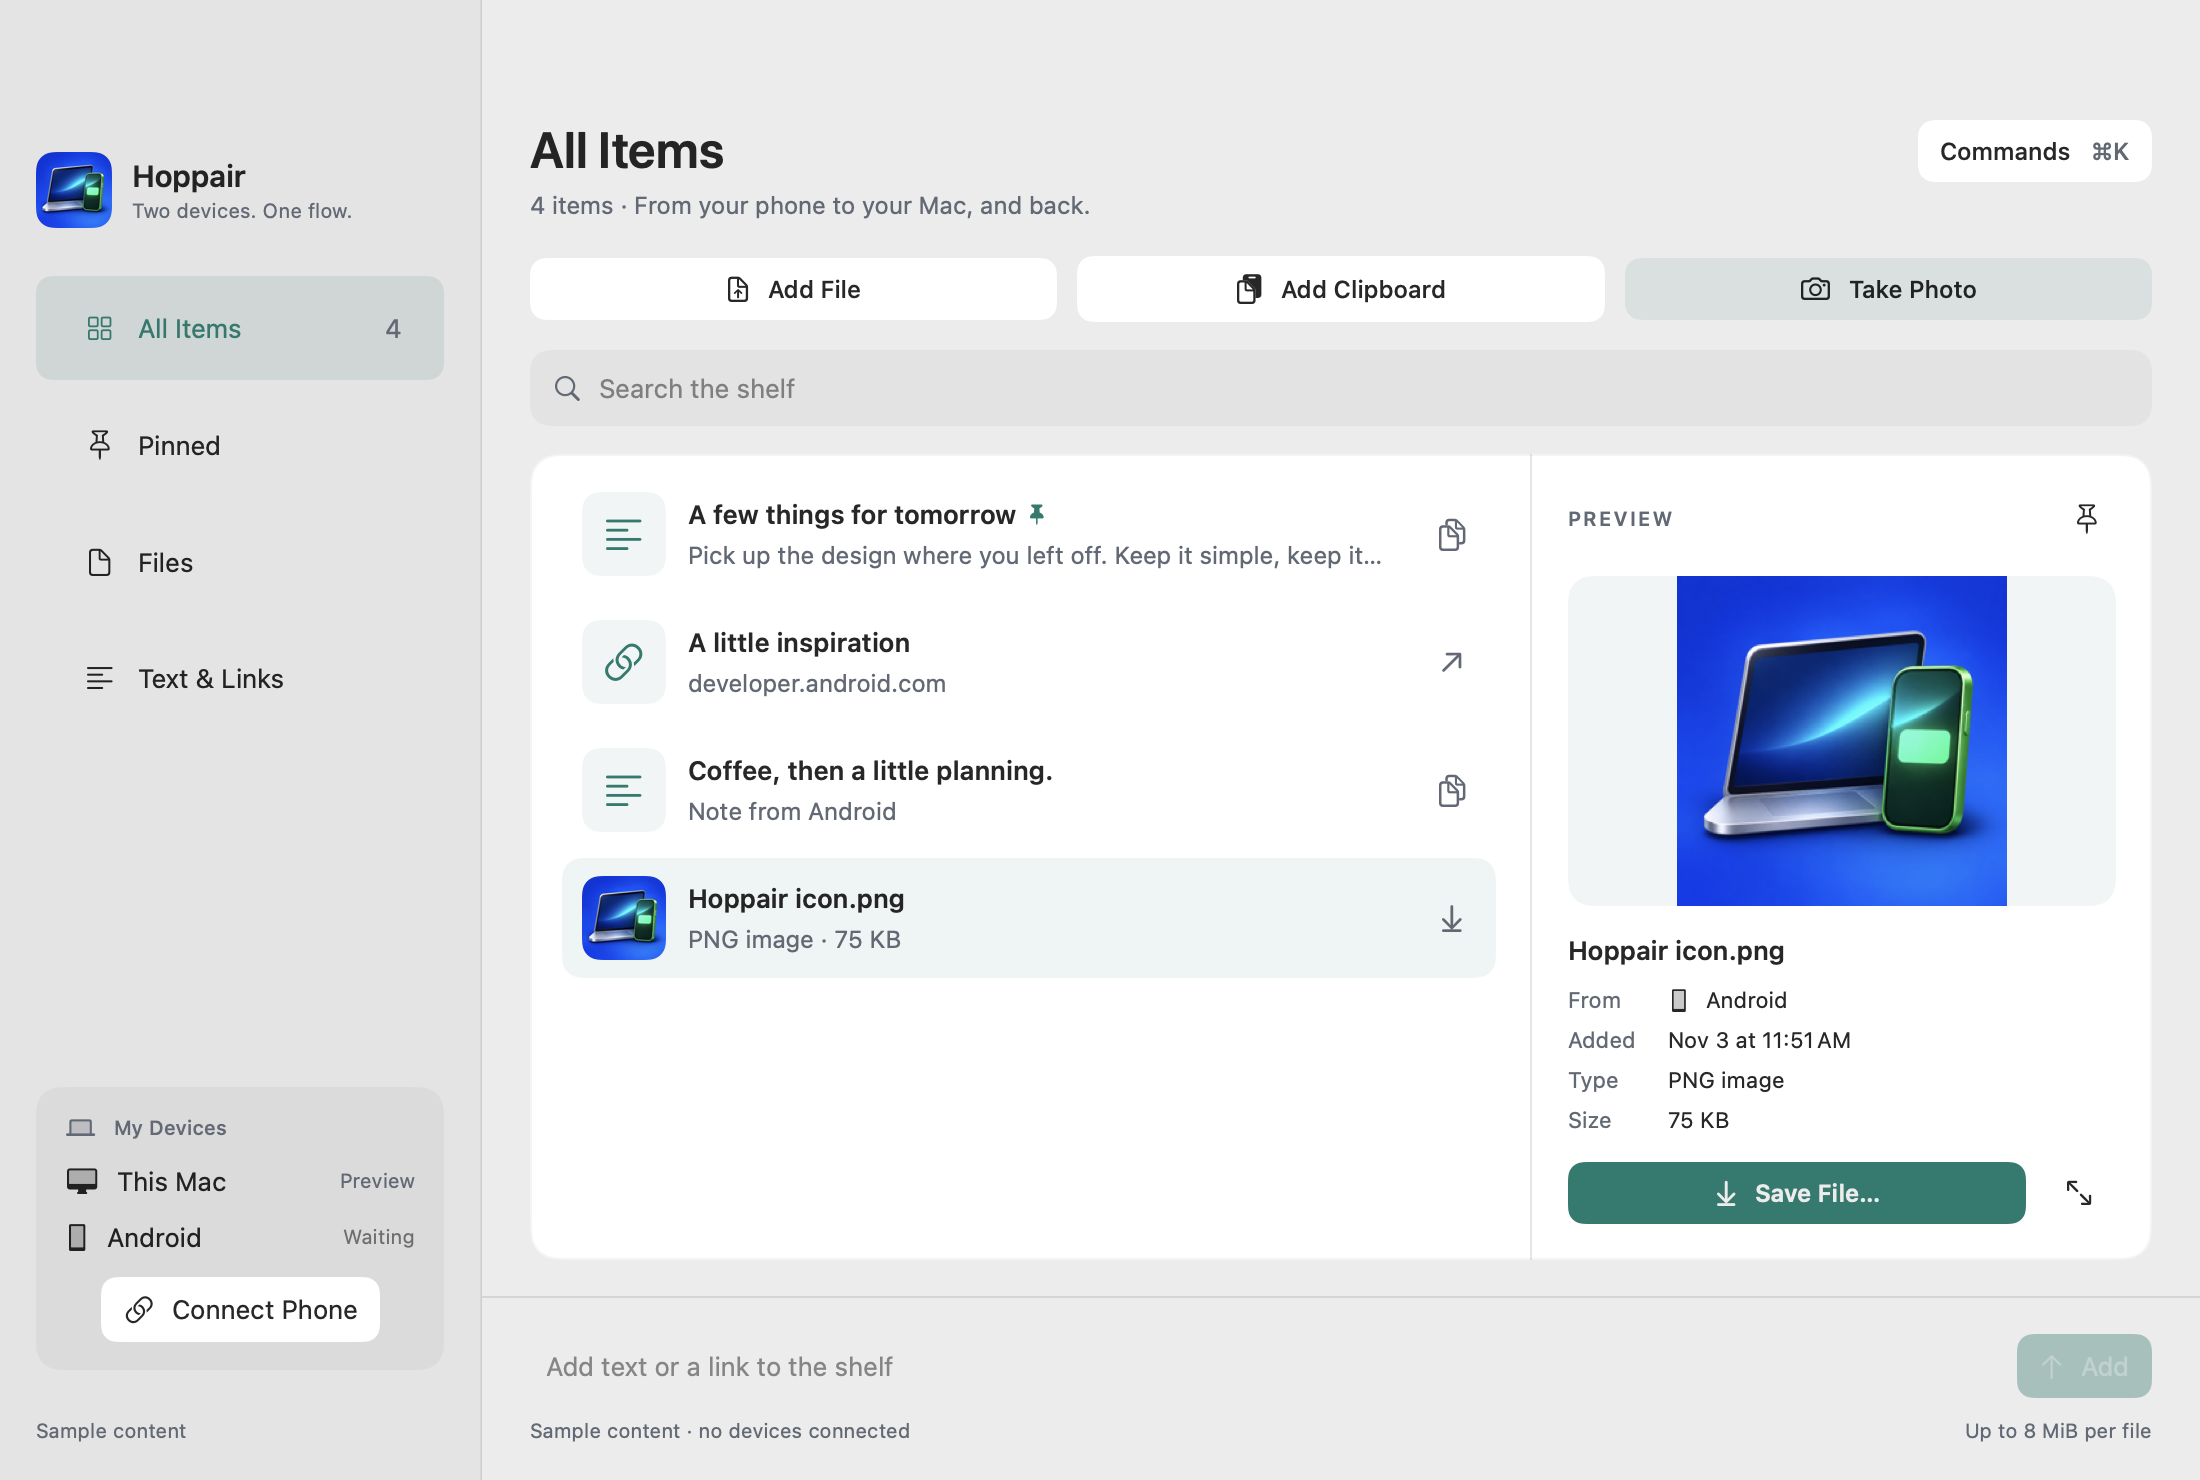
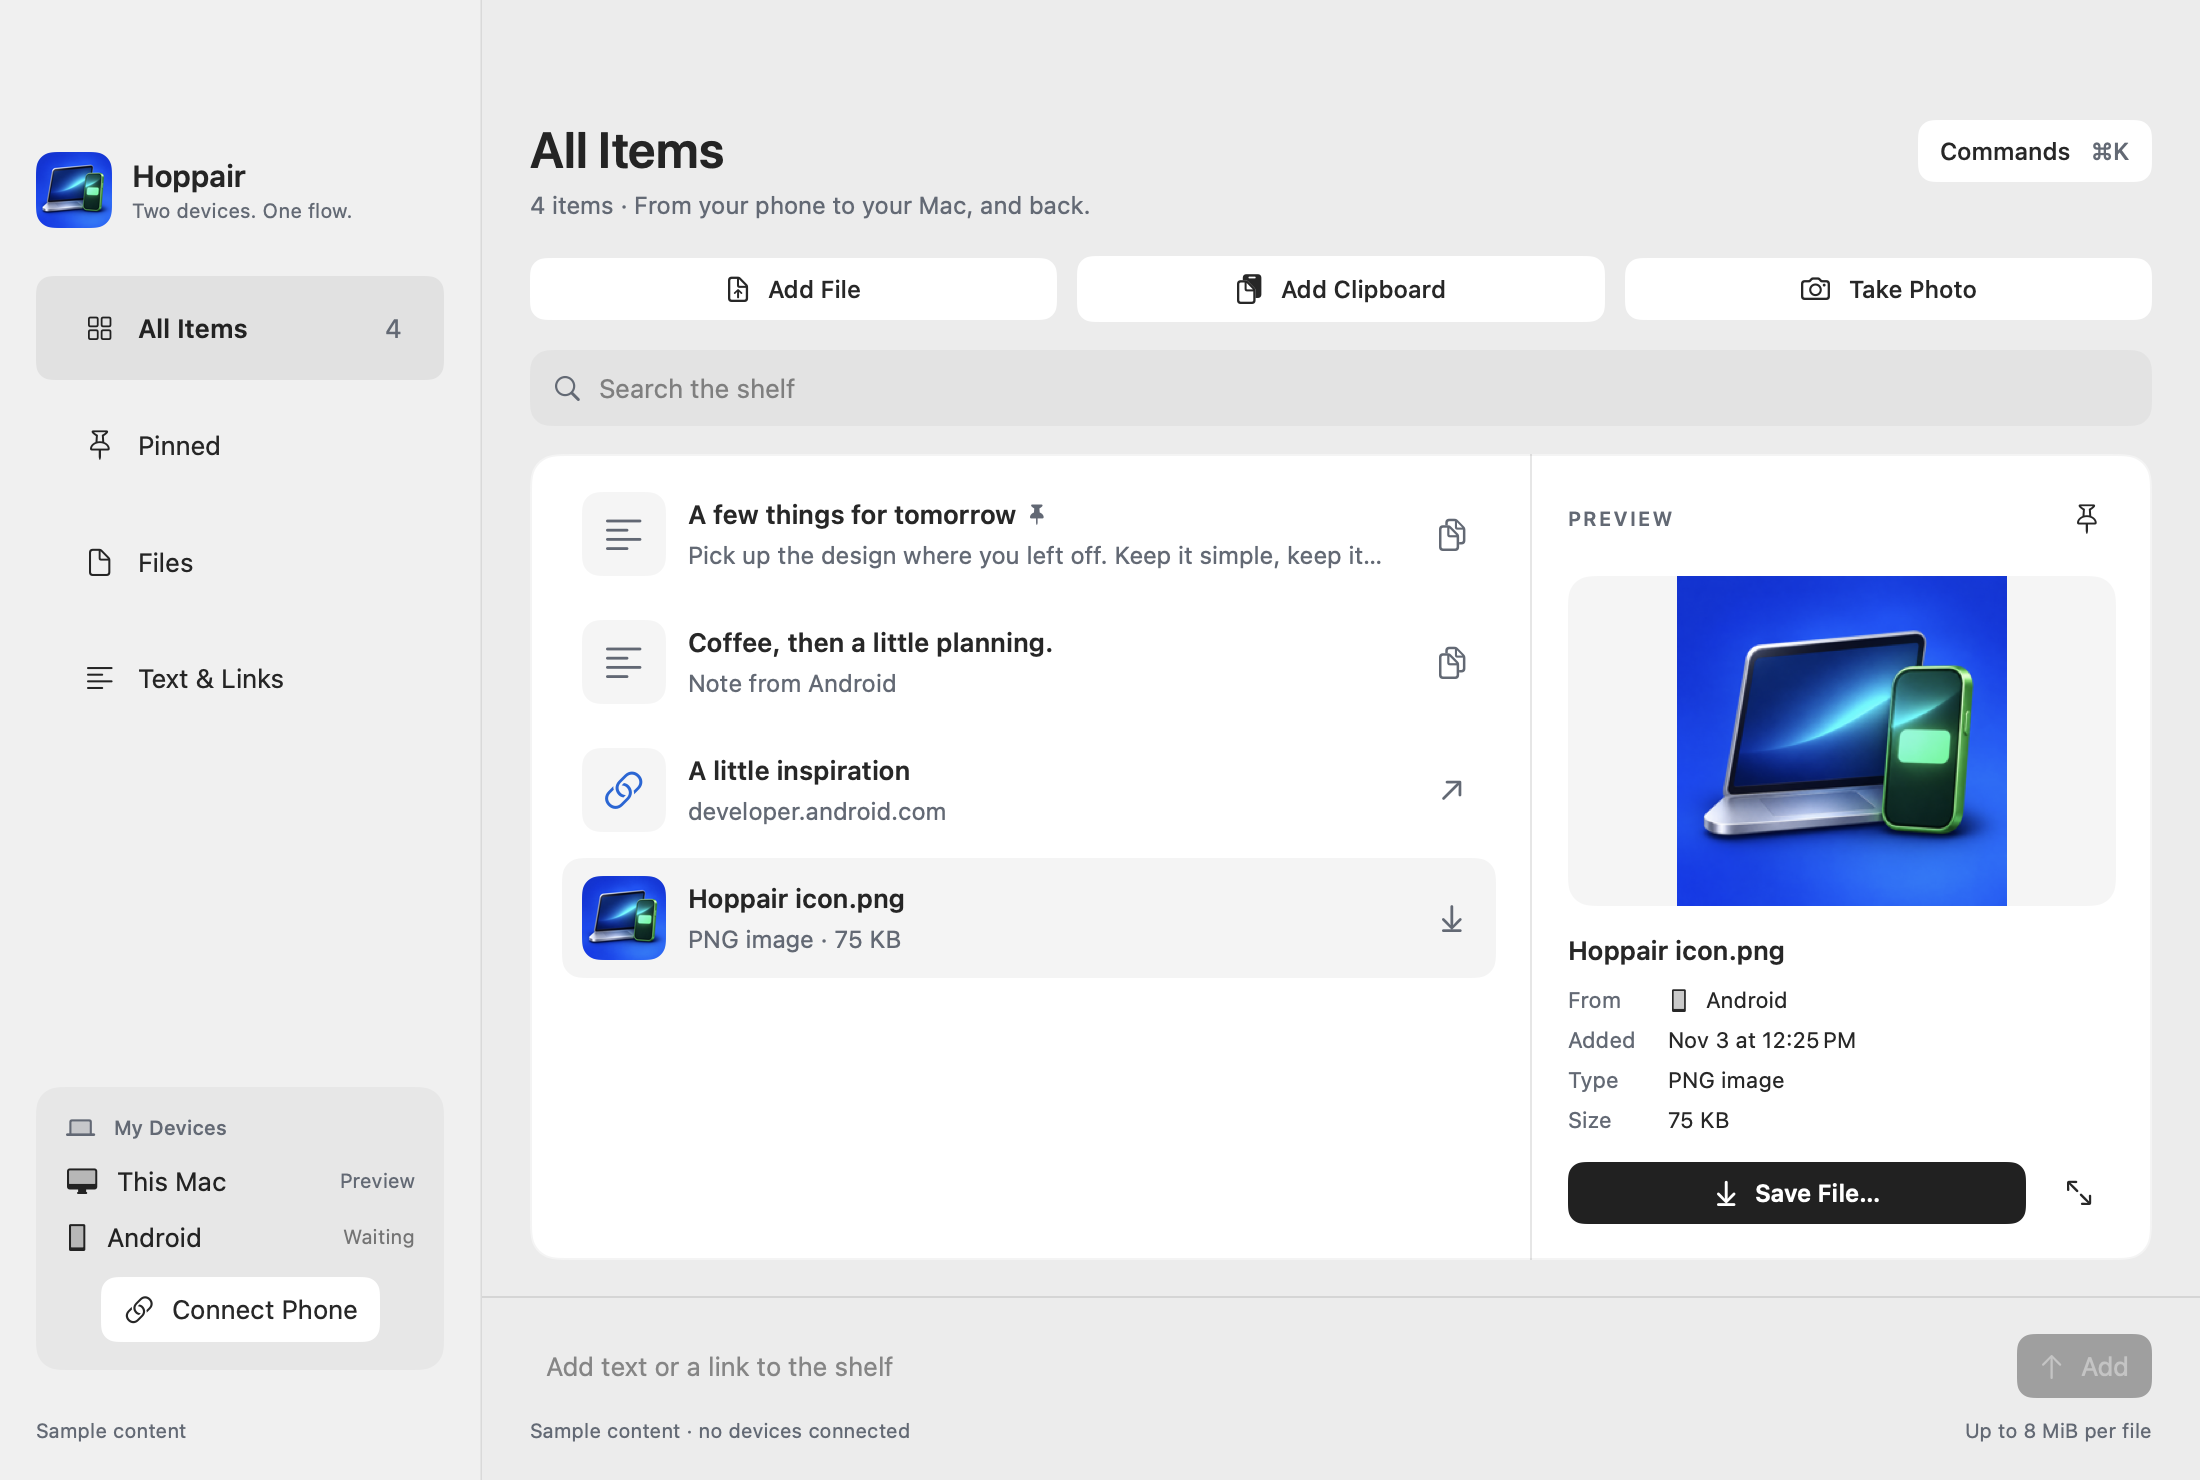
Use a neutral Mac palette with charcoal buttons

diff --git a/apps/macos/Sources/Hoppair/ShelfView.swift b/apps/macos/Sources/Hoppair/ShelfView.swift
@@ -30,7 +30,7 @@ struct ShelfView: View {
                 VStack(spacing: 6) {
                     ForEach(sections, id: \.0) { name, symbol in
                         Button { section = name } label: {
-                            HStack { Image(systemName: symbol).frame(width: 22); Text(name); Spacer(); if name == "All Items" { Text("\(model.items.count)").foregroundStyle(HoppairPalette.secondaryText) } }
+                            HStack { Image(systemName: symbol).frame(width: 22); Text(name).fontWeight(section == name ? .semibold : .regular); Spacer(); if name == "All Items" { Text("\(model.items.count)").foregroundStyle(HoppairPalette.secondaryText) } }
                                 .padding(10).frame(maxWidth: .infinity, alignment: .leading)
 
                         }.hoppairButton(.navigation, selected: section == name)
@@ -43,7 +43,7 @@ struct ShelfView: View {
                     HStack { Image(systemName: "desktopcomputer"); Text("This Mac"); Spacer(); Text(model.isScreenshotMode ? "Preview" : model.port > 0 || model.relayConnected ? "Ready" : "Preparing").font(.caption).foregroundStyle(HoppairPalette.secondaryText) }
                     TimelineView(.periodic(from: .now, by: 3)) { context in
                         let online = model.lastSeen.map { context.date.timeIntervalSince($0) < 12 } ?? false
-                        HStack { Image(systemName: "smartphone"); Text("Android"); Spacer(); Text(online ? "Connected" : "Waiting").font(.caption).foregroundStyle(online ? accent : .secondary) }
+                        HStack { Image(systemName: "smartphone"); Text("Android"); Spacer(); Text(online ? "Connected" : "Waiting").font(.caption).foregroundStyle(online ? Color.primary : Color.secondary) }
                     }
                     Button("Connect Phone", systemImage: "link") { model.showPairing = true }.frame(maxWidth: .infinity)
                 }.padding(14).background(.quaternary.opacity(0.4), in: RoundedRectangle(cornerRadius: 12))
@@ -69,11 +69,11 @@ struct ShelfView: View {
                     .padding(11).background(.quaternary.opacity(0.4), in: RoundedRectangle(cornerRadius: 10)).padding(.horizontal, 24)
                 if model.cameraRequest != nil {
                     HStack { Label("Open Hoppair on your phone to confirm the photo request", systemImage: "camera"); Spacer(); Button("Cancel Request") { model.cameraRequest = nil } }
-                        .font(.callout).padding(12).background(accent.opacity(0.10), in: RoundedRectangle(cornerRadius: 8)).padding(.horizontal, 24).padding(.top, 12)
+                        .font(.callout).padding(12).background(HoppairPalette.iconSurface, in: RoundedRectangle(cornerRadius: 8)).padding(.horizontal, 24).padding(.top, 12)
                 }
                 if filtered.isEmpty {
                     VStack(spacing: 14) {
-                        Image(systemName: search.isEmpty ? "tray" : "magnifyingglass").font(.system(size: 44, weight: .light)).foregroundStyle(accent)
+                        Image(systemName: search.isEmpty ? "tray" : "magnifyingglass").font(.system(size: 44, weight: .light)).foregroundStyle(HoppairPalette.secondaryText)
                         Text(emptyTitle).font(.title2.bold())
                         Text(emptyMessage)
                             .multilineTextAlignment(.center).foregroundStyle(HoppairPalette.secondaryText)

diff --git a/apps/macos/Sources/Hoppair/HoppairStyle.swift b/apps/macos/Sources/Hoppair/HoppairStyle.swift
@@ -2,12 +2,21 @@ import SwiftUI
 
 // Shared native surfaces keep hover, press, focus and disabled states consistent.
 enum HoppairPalette {
-    static let accent = Color(nsColor: NSColor(name: nil) { appearance in
-        if appearance.bestMatch(from: [.darkAqua, .aqua]) == .darkAqua {
-            return NSColor(srgbRed: 0.50, green: 0.84, blue: 0.78, alpha: 1)
-        }
-        return NSColor(srgbRed: 0.04, green: 0.48, blue: 0.43, alpha: 1)
-    })
+    // Blue is reserved for links and system interaction; everyday surfaces stay neutral.
+    static let accent = Color(nsColor: .linkColor)
+    static let primaryFill = adaptive(light: shade(0.13), dark: shade(0.88))
+    static let primaryForeground = adaptive(light: .white, dark: shade(0.12))
+    static let iconSurface = Color.primary.opacity(0.045)
+    static let hoverFill = Color.primary.opacity(0.055)
+    static func selectionFill(focused: Bool) -> Color { Color.primary.opacity(focused ? 0.085 : 0.05) }
+    private static func shade(_ level: CGFloat) -> NSColor {
+        NSColor(srgbRed: level, green: level, blue: level, alpha: 1)
+    }
+    private static func adaptive(light: NSColor, dark: NSColor) -> Color {
+        Color(nsColor: NSColor(name: nil) { appearance in
+            appearance.bestMatch(from: [.darkAqua, .aqua]) == .darkAqua ? dark : light
+        })
+    }
     static let secondaryText = Color(nsColor: NSColor(name: nil) { appearance in
         appearance.bestMatch(from: [.darkAqua, .aqua]) == .darkAqua
             ? NSColor(srgbRed: 0.70, green: 0.73, blue: 0.77, alpha: 1)
@@ -33,15 +42,17 @@ struct HoppairButtonStyle: ButtonStyle {
         @Environment(\.accessibilityReduceMotion) private var reduceMotion
         private var active: Bool { enabled && (hovered || configuration.isPressed) }
         private var background: Color {
-            if kind == .primary { return HoppairPalette.accent.opacity(active ? 0.86 : 1) }
-            if kind == .navigation || kind == .row {
-                return selected ? HoppairPalette.accent.opacity(active ? 0.20 : 0.12) : Color.primary.opacity(active ? 0.065 : 0)
+            if kind == .primary { return HoppairPalette.primaryFill.opacity(active ? 0.86 : 1) }
+            // The row container owns its hover fill so the action and content share one surface.
+            if kind == .row { return .clear }
+            if kind == .navigation {
+                return selected ? Color.primary.opacity(active ? 0.11 : 0.075) : Color.primary.opacity(active ? 0.055 : 0)
             }
-            return active ? HoppairPalette.accent.opacity(0.10) : (kind == .icon ? .clear : HoppairPalette.surface)
+            return active ? HoppairPalette.hoverFill : (kind == .icon ? .clear : HoppairPalette.surface)
         }
         var body: some View {
             configuration.label
-                .foregroundStyle(kind == .primary ? Color(nsColor: .windowBackgroundColor) : selected || (active && kind == .icon) ? HoppairPalette.accent : Color.primary)
+                .foregroundStyle(kind == .primary ? HoppairPalette.primaryForeground : Color.primary)
                 .padding(.horizontal, kind == .row ? 0 : kind == .icon ? 7 : 11)
                 .padding(.vertical, kind == .row ? 0 : kind == .icon ? 7 : 8)
                 .background(background, in: RoundedRectangle(cornerRadius: 8))

diff --git a/apps/macos/Sources/Hoppair/ShelfItemRow.swift b/apps/macos/Sources/Hoppair/ShelfItemRow.swift
@@ -40,7 +40,7 @@ struct ShelfItemRow: View {
                             Text(item.title.replacingOccurrences(of: "\n", with: " "))
                                 .font(.system(size: 13, weight: .semibold)).lineLimit(1)
                                 .truncationMode(item.kind == "file" ? .middle : .tail)
-                            if item.pinned { Image(systemName: "pin.fill").font(.system(size: 9)).foregroundStyle(HoppairPalette.accent).accessibilityLabel("Pinned") }
+                            if item.pinned { Image(systemName: "pin.fill").font(.system(size: 9)).foregroundStyle(HoppairPalette.secondaryText).accessibilityLabel("Pinned") }
                         }
                         Text(item.rowSubtitle).font(.system(size: 12)).foregroundStyle(HoppairPalette.secondaryText).lineLimit(1)
                     }.frame(maxWidth: .infinity, alignment: .leading)
@@ -56,10 +56,10 @@ struct ShelfItemRow: View {
             }.hoppairButton(.icon).padding(.trailing, 7)
                 .help(copied ? "Copied" : item.primaryTitle).accessibilityLabel(copied ? "Copied" : item.primaryTitle)
         }
-        .background(selected ? HoppairPalette.accent.opacity(focused ? 0.14 : 0.08) : Color.primary.opacity(hovered ? 0.035 : 0), in: RoundedRectangle(cornerRadius: 10))
+        .background(selected ? HoppairPalette.selectionFill(focused: focused) : Color.primary.opacity(hovered ? 0.035 : 0), in: RoundedRectangle(cornerRadius: 10))
         .overlay(alignment: .leading) {
             if focused {
-                Capsule().fill(HoppairPalette.accent).frame(width: 3, height: 24)
+                Capsule().fill(Color.primary.opacity(0.65)).frame(width: 3, height: 24)
                     .padding(.leading, 3).allowsHitTesting(false).accessibilityHidden(true)
             }
         }
@@ -87,7 +87,7 @@ struct ShelfItemPreview: View {
                 Text("PREVIEW").font(.system(size: 10, weight: .semibold)).tracking(1).foregroundStyle(HoppairPalette.secondaryText)
                 Spacer()
                 Button(action: onPin) { Image(systemName: item.pinned ? "pin.fill" : "pin").frame(width: 15, height: 15) }
-                    .hoppairButton(.icon, selected: item.pinned).help(item.pinned ? "Unpin item" : "Pin item")
+                    .hoppairButton(.icon).help(item.pinned ? "Unpin item" : "Pin item")
                     .accessibilityLabel(item.pinned ? "Unpin item" : "Pin item")
             }
             if item.kind == "file" {

diff --git a/apps/macos/Sources/Hoppair/ItemThumbnail.swift b/apps/macos/Sources/Hoppair/ItemThumbnail.swift
@@ -31,12 +31,12 @@ struct ItemThumbnail: View {
     @State private var bitmap: CGImage?
     var body: some View {
         ZStack {
-            RoundedRectangle(cornerRadius: fitted ? 12 : 9).fill(HoppairPalette.accent.opacity(0.07))
+            RoundedRectangle(cornerRadius: fitted ? 12 : 9).fill(HoppairPalette.iconSurface)
             if let bitmap {
                 Image(decorative: bitmap, scale: 1).resizable().aspectRatio(contentMode: fitted ? .fit : .fill)
             } else {
                 Image(systemName: item.kind == "link" ? "link" : item.kind == "text" ? "text.alignleft" : item.mime?.hasPrefix("image/") == true ? "photo" : "doc.text")
-                    .font(.system(size: fitted ? 42 : 18, weight: .regular)).foregroundStyle(HoppairPalette.accent)
+                    .font(.system(size: fitted ? 42 : 18, weight: .regular)).foregroundStyle(item.kind == "link" ? HoppairPalette.accent : HoppairPalette.secondaryText)
             }
         }
         .frame(width: fitted ? nil : size, height: fitted ? nil : size)

diff --git a/docs/development.md b/docs/development.md
@@ -59,7 +59,7 @@ After building the Mac app, `./scripts/capture-mac-ui.sh` creates a separately i
 ## Package a release
 
 ```bash
-./scripts/package-release.sh 0.1.1
+./scripts/package-release.sh 0.1.3
 ```
 
 Existing MacDroid signing configurations are reused automatically; do not generate a replacement key for an existing installation. `MACDROID_*` signing/build environment variables remain accepted as fallbacks.
@@ -82,7 +82,7 @@ For command-line packaging, use an existing `notarytool` Keychain profile:
 ```bash
 HOPPAIR_SIGN_IDENTITY="Developer ID Application: Your Name (TEAMID)" \
 HOPPAIR_NOTARY_PROFILE=hoppair-notary \
-./scripts/package-release.sh 0.1.1
+./scripts/package-release.sh 0.1.3
 ```
 
 Create the profile yourself with `xcrun notarytool store-credentials hoppair-notary`; credentials stay outside Git. The packaging script enables hardened runtime, waits for notarization, staples the ticket, and then archives the app.
